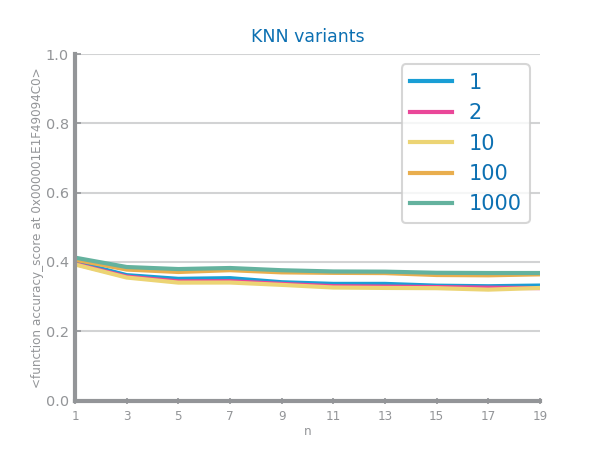
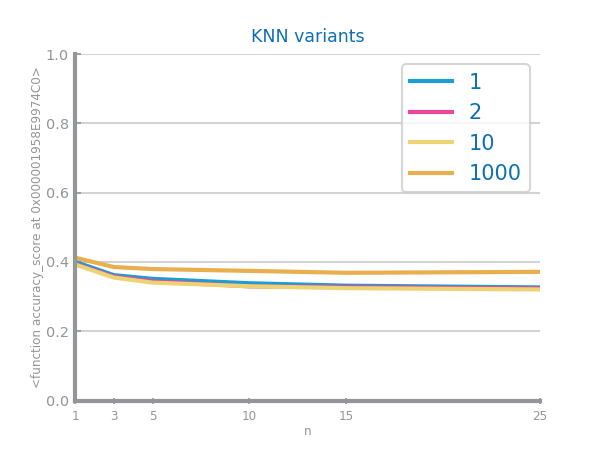
Before lab 5 changes

diff --git a/diabetesDataset/lab3/KNNParameterisation.py b/diabetesDataset/lab3/KNNParameterisation.py
@@ -2,9 +2,9 @@
 
 from numpy import ndarray
 from pandas import DataFrame, read_csv, unique
-from matplotlib.pyplot import figure, savefig, show
+from matplotlib.pyplot import figure, savefig, show, subplots
 from sklearn.neighbors import KNeighborsClassifier
-from ds_charts import plot_evaluation_results, multiple_line_chart, plot_overfitting_study
+from ds_charts import plot_evaluation_results, multiple_line_chart, HEIGHT, set_elements
 from sklearn.metrics import accuracy_score
 import sklearn
 import numpy as np
@@ -24,28 +24,46 @@ labels.sort()
 # %% GridSearch
 
 evalMetric = accuracy_score
-nvalues = [1, 3, 9, 13, 15, 20, 25, 35, 50, 65, 85, 110, 140, 160, 200]
-dist = [1, 2, 10, 100, 1000]
+nvalues = [1, 3, 5, 10, 15, 25]
+dist = [1, 2, 10, 1000]
 values = {}
 best = (0, '')
 lastBest = 0
-# for d in dist:
-#     yValValues = []
-#     for n in nvalues:
-#         knn = KNeighborsClassifier(n_neighbors=n, p=d)
-#         knn.fit(xTrain, yTrain)
-#         predictedYVal = knn.predict(xVal)
-#         yValValues.append(evalMetric(yVal, predictedYVal))
-#         if yValValues[-1] > lastBest:
-#             best = (n, d)
-#             lastBest = yValValues[-1]
-#     values[d] = yValValues
 
-# figure()
-# multiple_line_chart(nvalues, values, title='KNN variants', xlabel='n', ylabel=str(accuracy_score), percentage=True)
-# savefig('images/balanced1_knn_study.png')
-# show()
-# print('Best results with %d neighbors and %s'%(best[0], best[1]))
+figure()
+
+overfittingCols = len(dist)
+
+figOverfitting, axsOverfitting = subplots(1, overfittingCols, figsize=(
+    len(nvalues)*HEIGHT, HEIGHT), squeeze=False)
+
+for distanceIndex, d in enumerate(dist):
+    yValValues = []
+    yTrainMetrics = []
+    for n in nvalues:
+        knn = KNeighborsClassifier(n_neighbors=n, p=d)
+        knn.fit(xTrain, yTrain)
+        predictedYVal = knn.predict(xVal)
+        yValValues.append(evalMetric(yVal, predictedYVal))
+        prdYTrain = knn.predict(xTrain)
+        yTrainMetrics.append(evalMetric(yTrain, prdYTrain))
+        if yValValues[-1] > lastBest:
+            best = (n, d)
+            lastBest = yValValues[-1]
+    values[d] = yValValues
+    axis = set_elements(
+        ax=axsOverfitting[0, distanceIndex], title='Distance power = ' + str(d), xlabel=evalMetric, ylabel='NumOfNearestNeighbors')
+    axis.plot(nvalues, yTrainMetrics, color = 'orange', linewidth=2, markersize=12, label= 'Train')
+    axis.plot(nvalues, yValValues, color='blue',
+              linewidth=2, markersize=12, label='Validation')
+    axis.set_ylim((0,1))
+    axis.legend(loc="lower right")
+
+figure()
+multiple_line_chart(nvalues, values, title='KNN variants', xlabel='n', ylabel=str(accuracy_score), percentage=True)
+savefig('images/balanced1_knn_study.png')
+show()
+print('Best results with %d neighbors and %s'%(best[0], best[1]))
 
 
 
